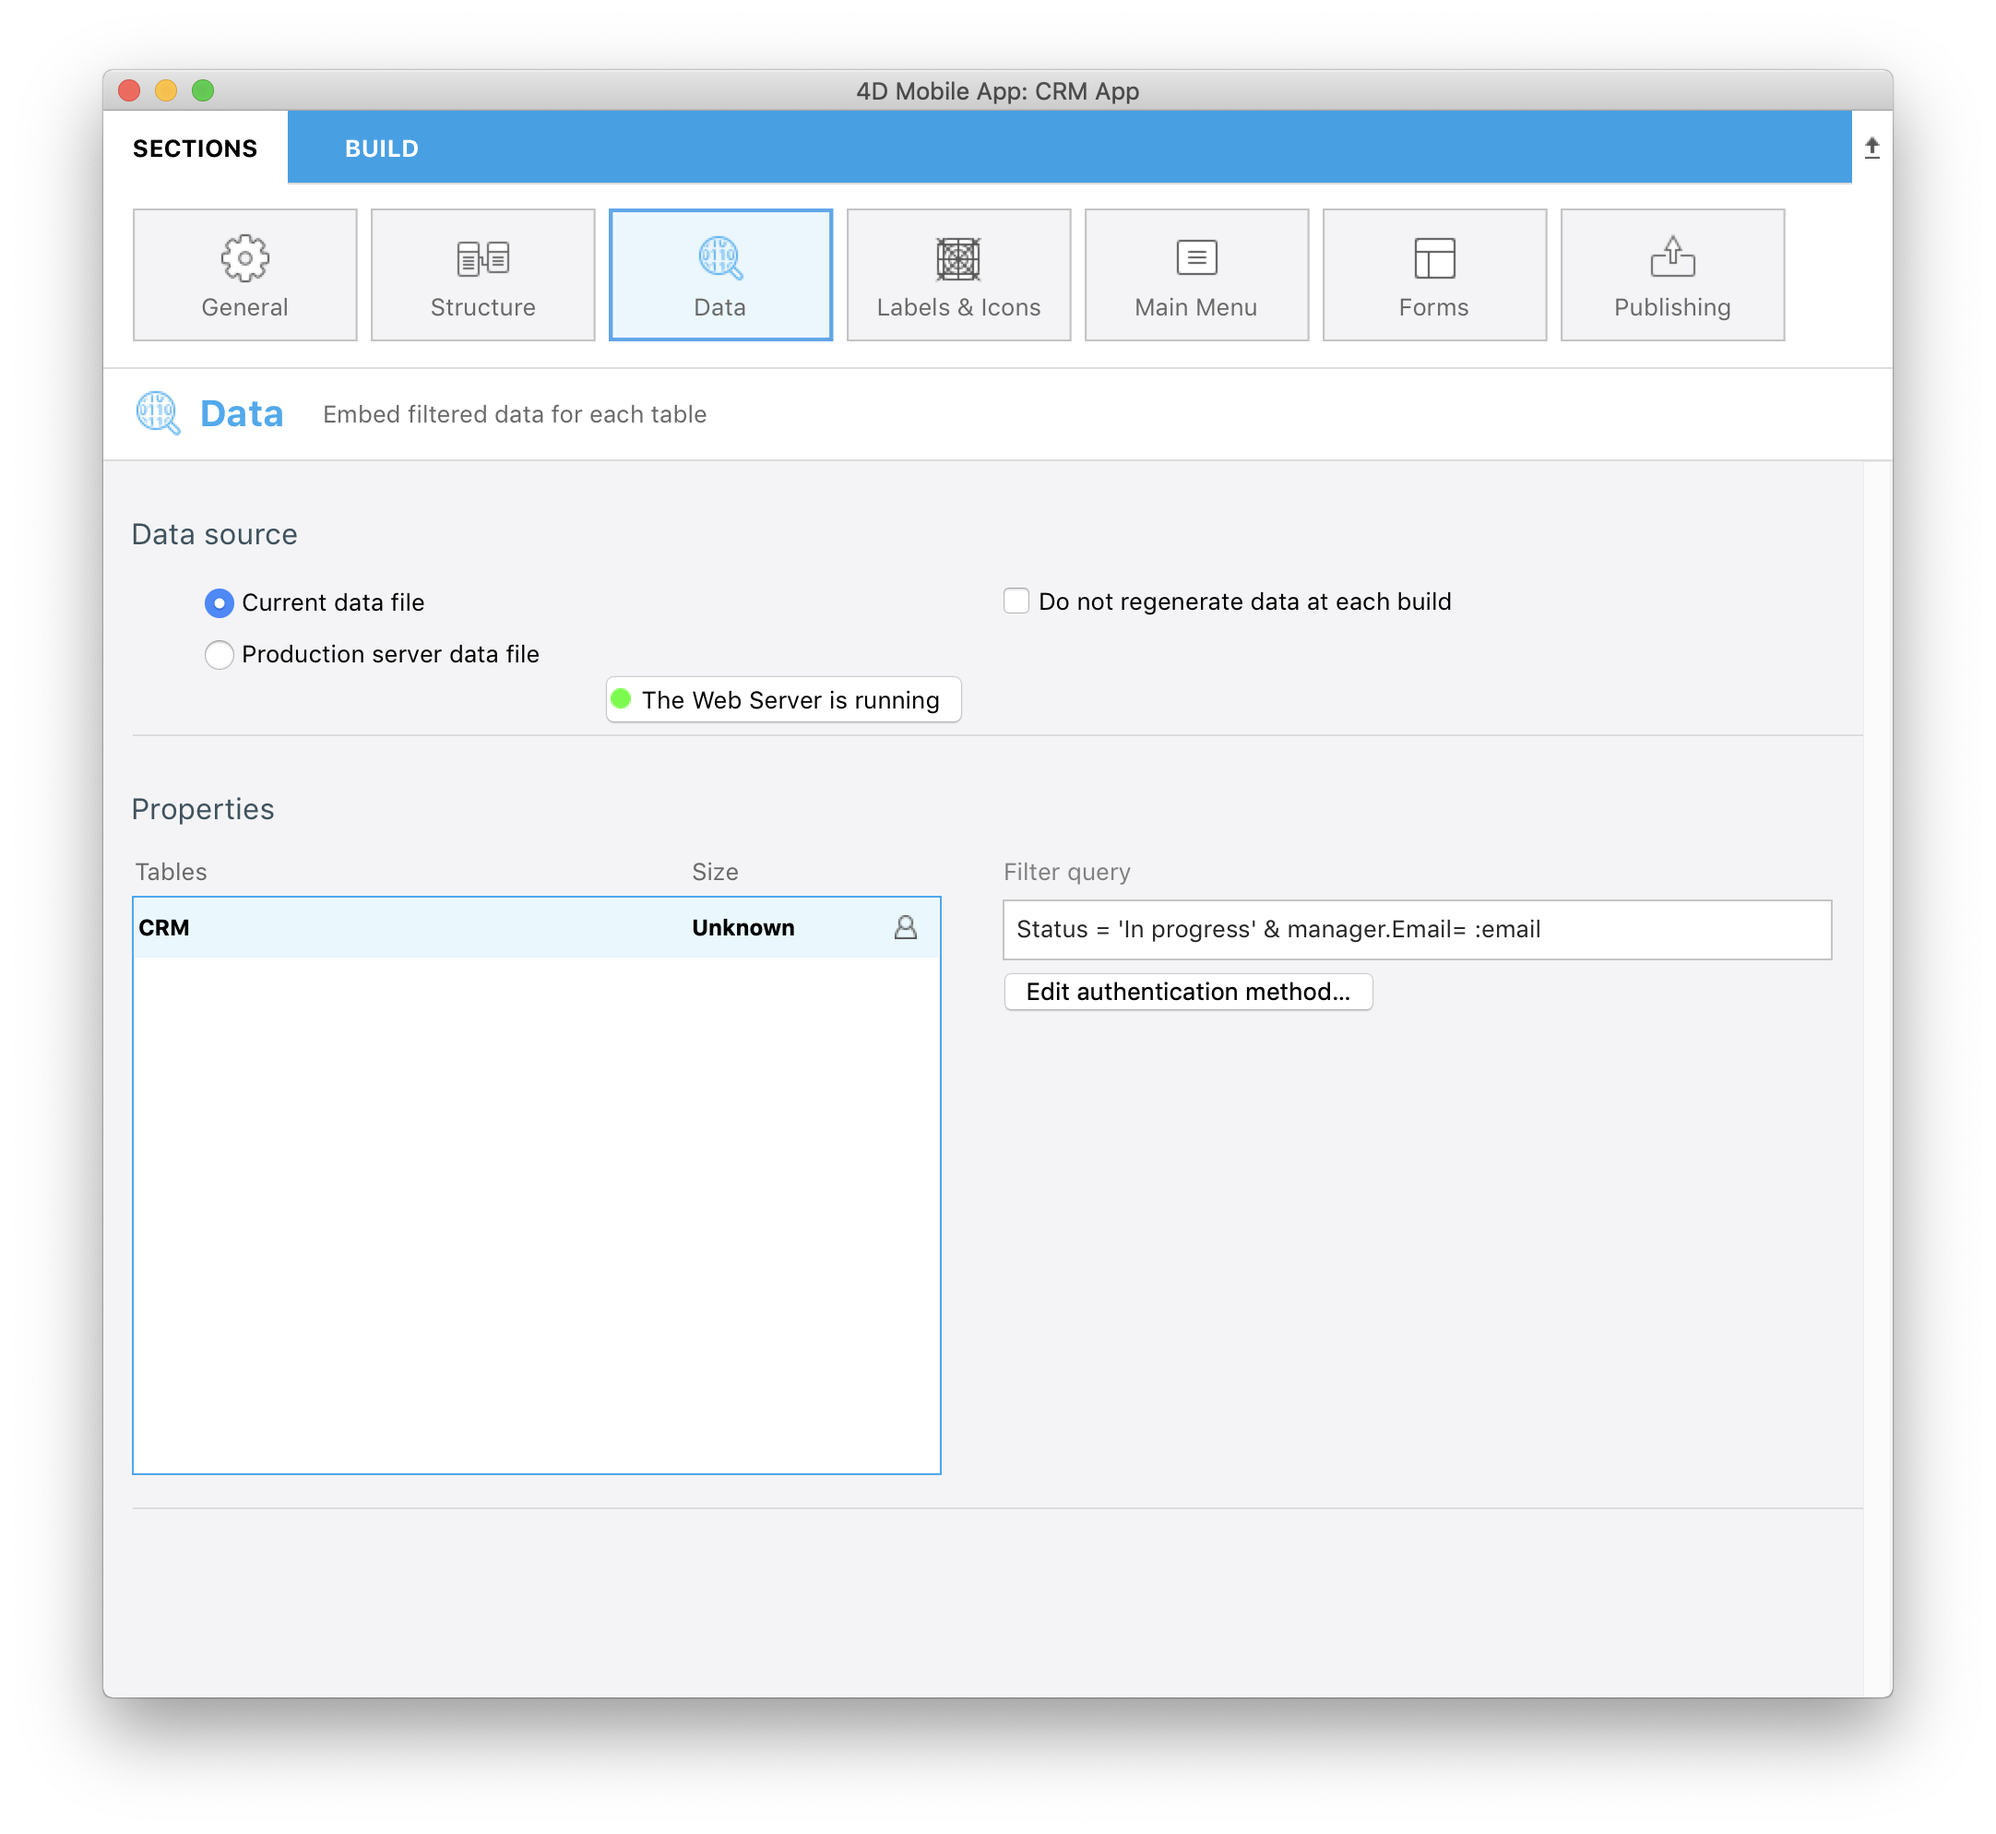
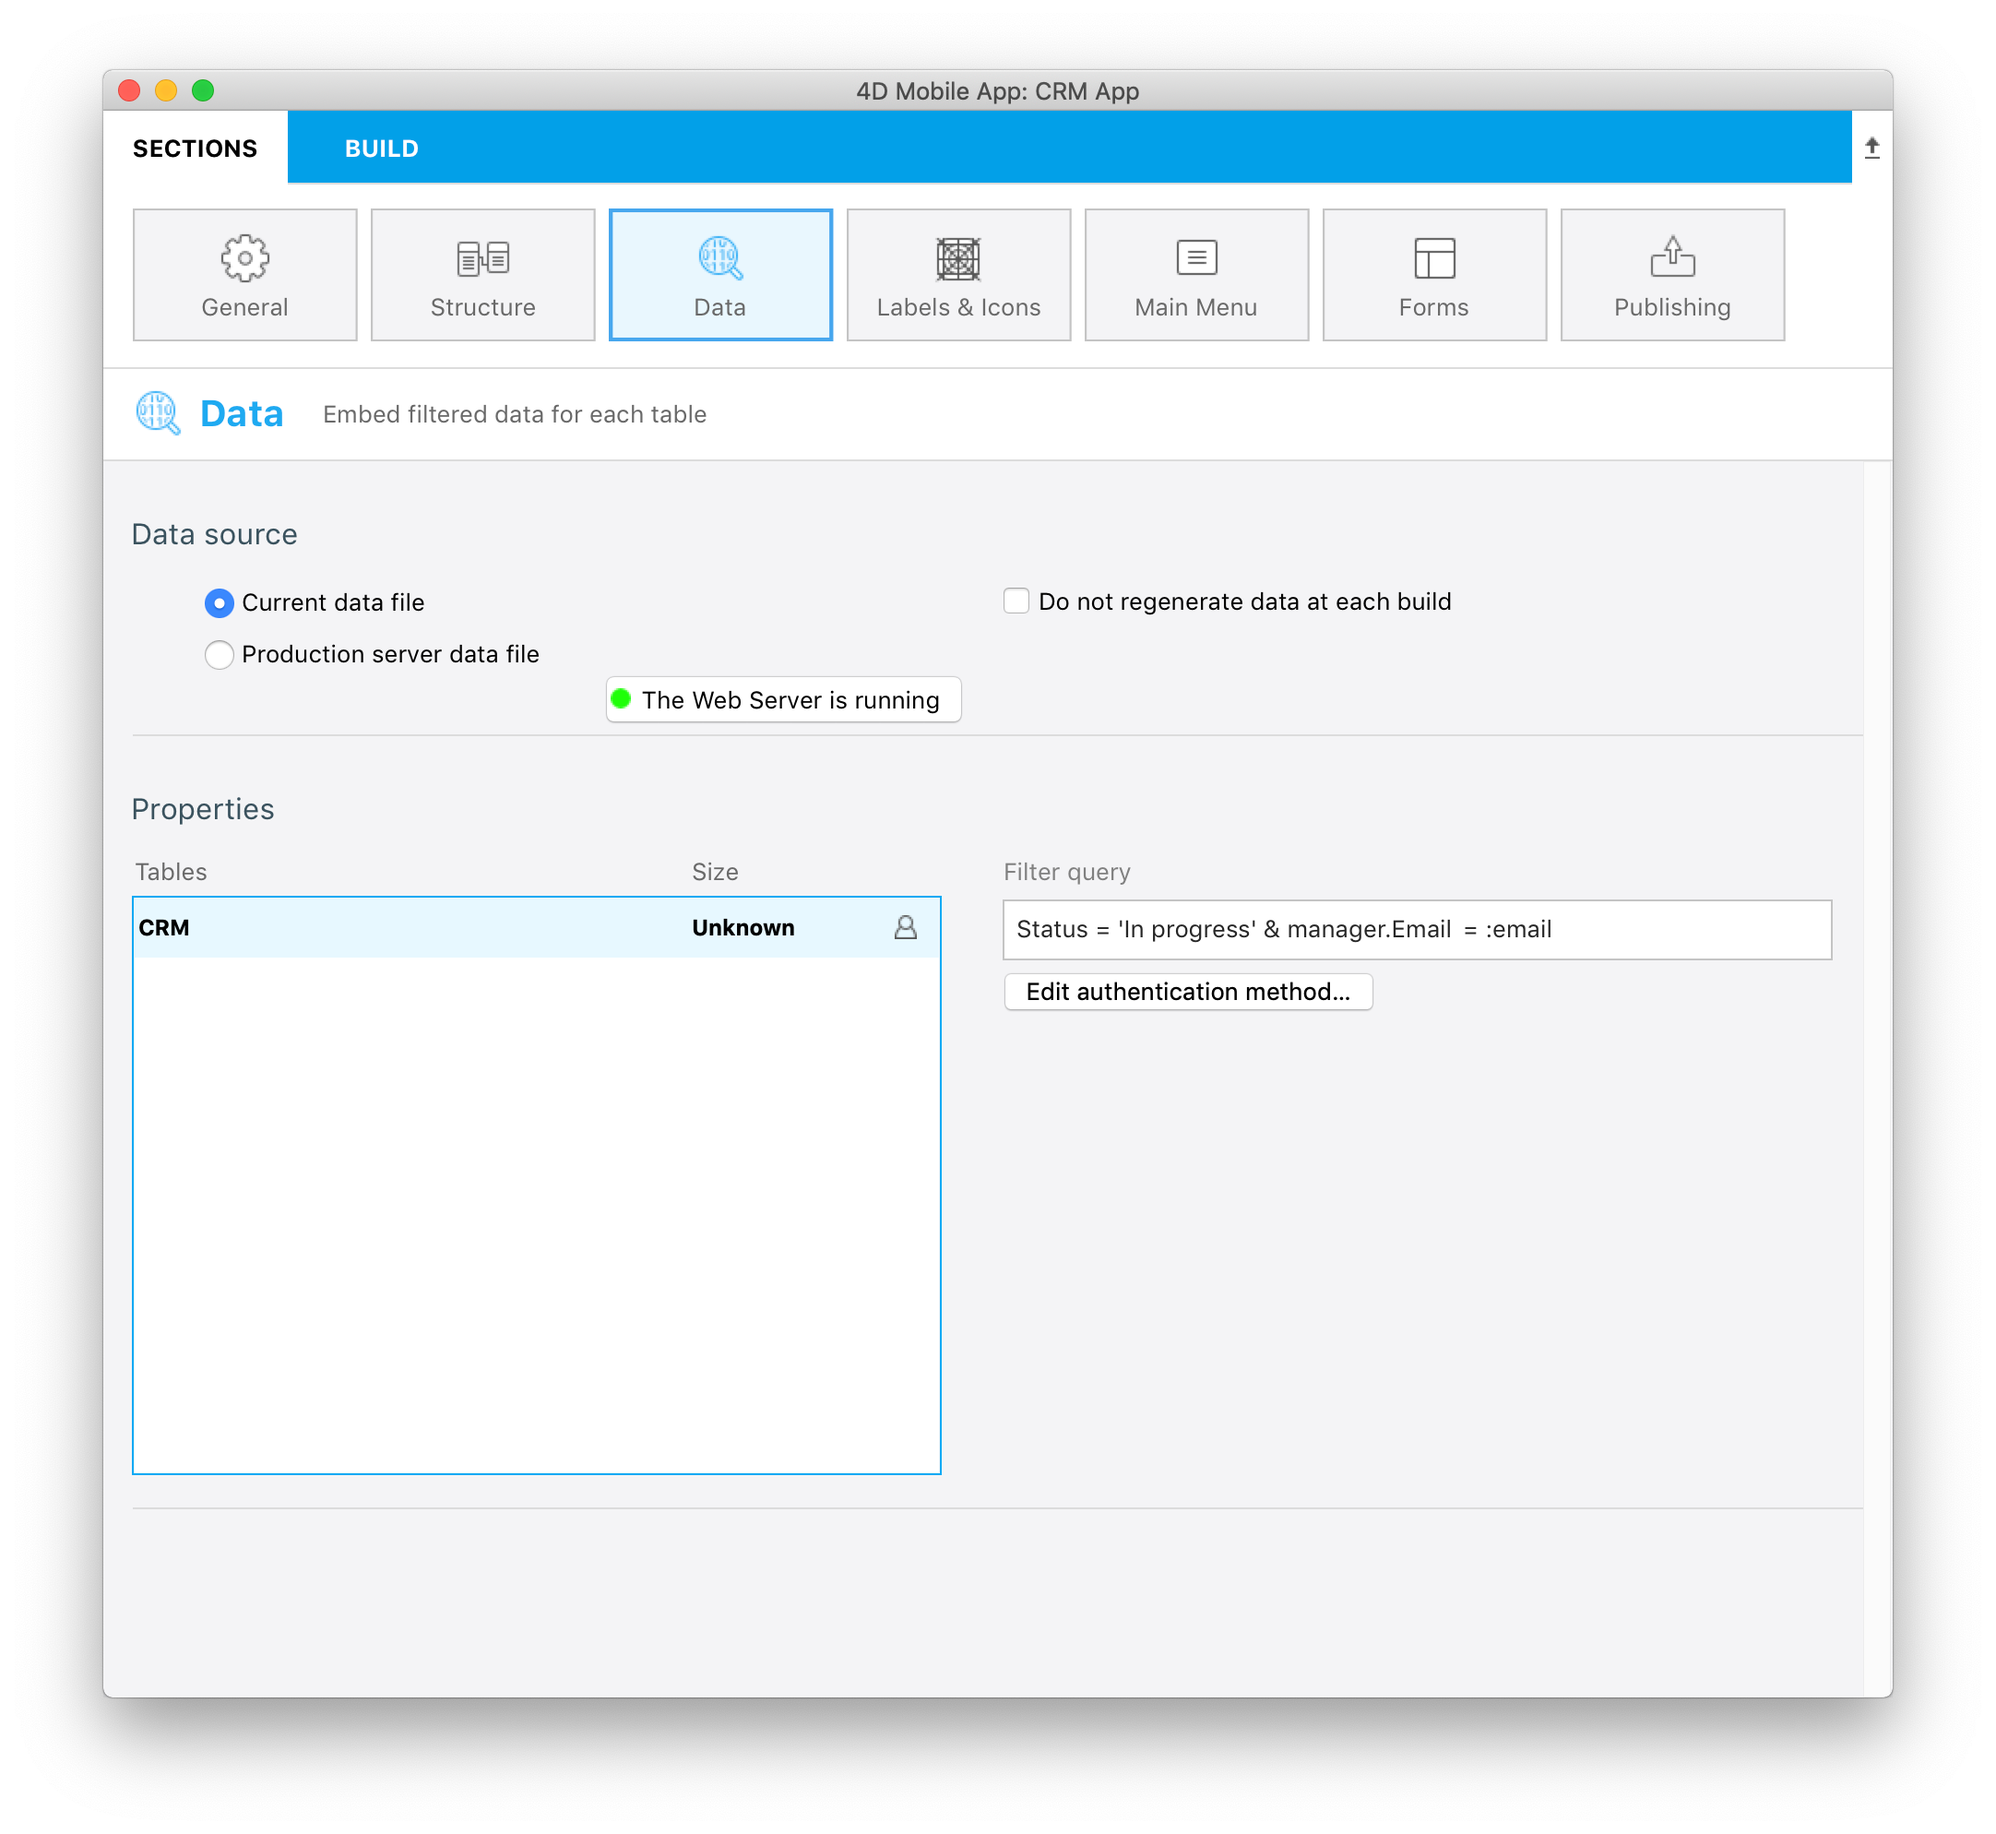
Update DataPanel.md page a,d RestrictedQueries-userinformationquery.md

diff --git a/docs/ProjectEditor-DataPanel.md b/docs/ProjectEditor-DataPanel.md
@@ -65,7 +65,7 @@ When a query filter is valid an funnel icon appears to indicate that the defined
 
 In the Filter query field enter:
 
-FirstName = 'Lisa' & LastName = 'Hart'
+```FirstName = 'Lisa' & LastName = 'Hart'```
 
 *This query allows you to display only the records that includes Lisa as FirstName and Hart as LastName*
 
@@ -80,7 +80,7 @@ Here you will be able to define filters you want depending on user informations 
 
 * To specify that the this query depends on user informations just add ":" before the critera you want to define as a filter
 
-* As for query filster, you have to validate your query each time you modify it
+* As for query filter, you have to validate your query each time you modify it
 
 * Once it is validated a buttons appears to allow you to adding information about users in the Mobile App Authentication method.
 
@@ -97,12 +97,20 @@ In the Filter query field enter:
 
 CityName = :city
 
-In the On Mobile App Authentication database method, enter :
+In the [On Mobile App Authentication database method](http://doc.4d.com/4Dv17R3/4D/17-R3/On-Mobile-App-Authentication-database-method.301-3906587.en.html), enter :
 
-$response.userInfo:=New object("city";"Paris")
+```$response.userInfo:=New object("city";"Paris")```
 
 
 *This query allows you to display only the records which include Paris as CityName*
+
+</div>
+
+<div markdown="1" class = "tips">
+
+**NOTE:**
+
+You will find all rules about query syntax in the [4D documentation](http://livedoc.4d.com/4D-Language-Reference-17-R3/ORDA-DataClass/dataClassquery.301-3907505.en.html)
 
 </div>
 

diff --git a/docs/RestrictedQueries-userinformationquery.md b/docs/RestrictedQueries-userinformationquery.md
@@ -12,7 +12,7 @@ Now let's filter our app content depending on the account manager login email (u
 * Now define which user information you want to get from the database method **:email** 
 
 ```
-Status = 'In progress' & manager.Email= :email 
+Status = 'In progress' & manager.Email = :email 
 ```
 
 * Remember to validate the query clicking on the **Validate Button**. If not you will not be able to build your app.
